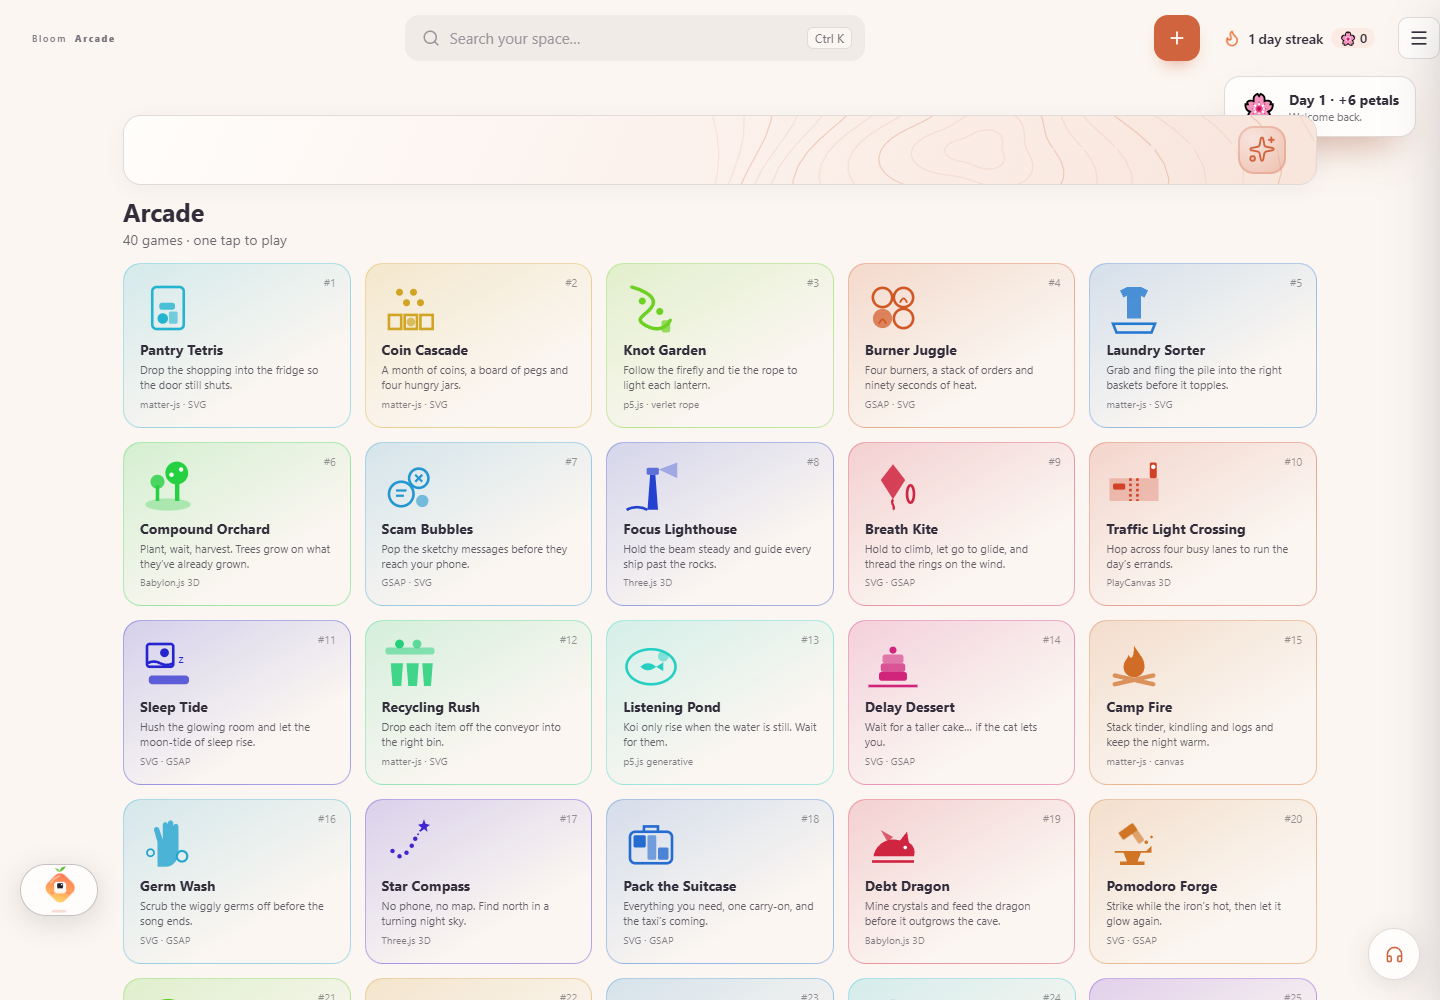
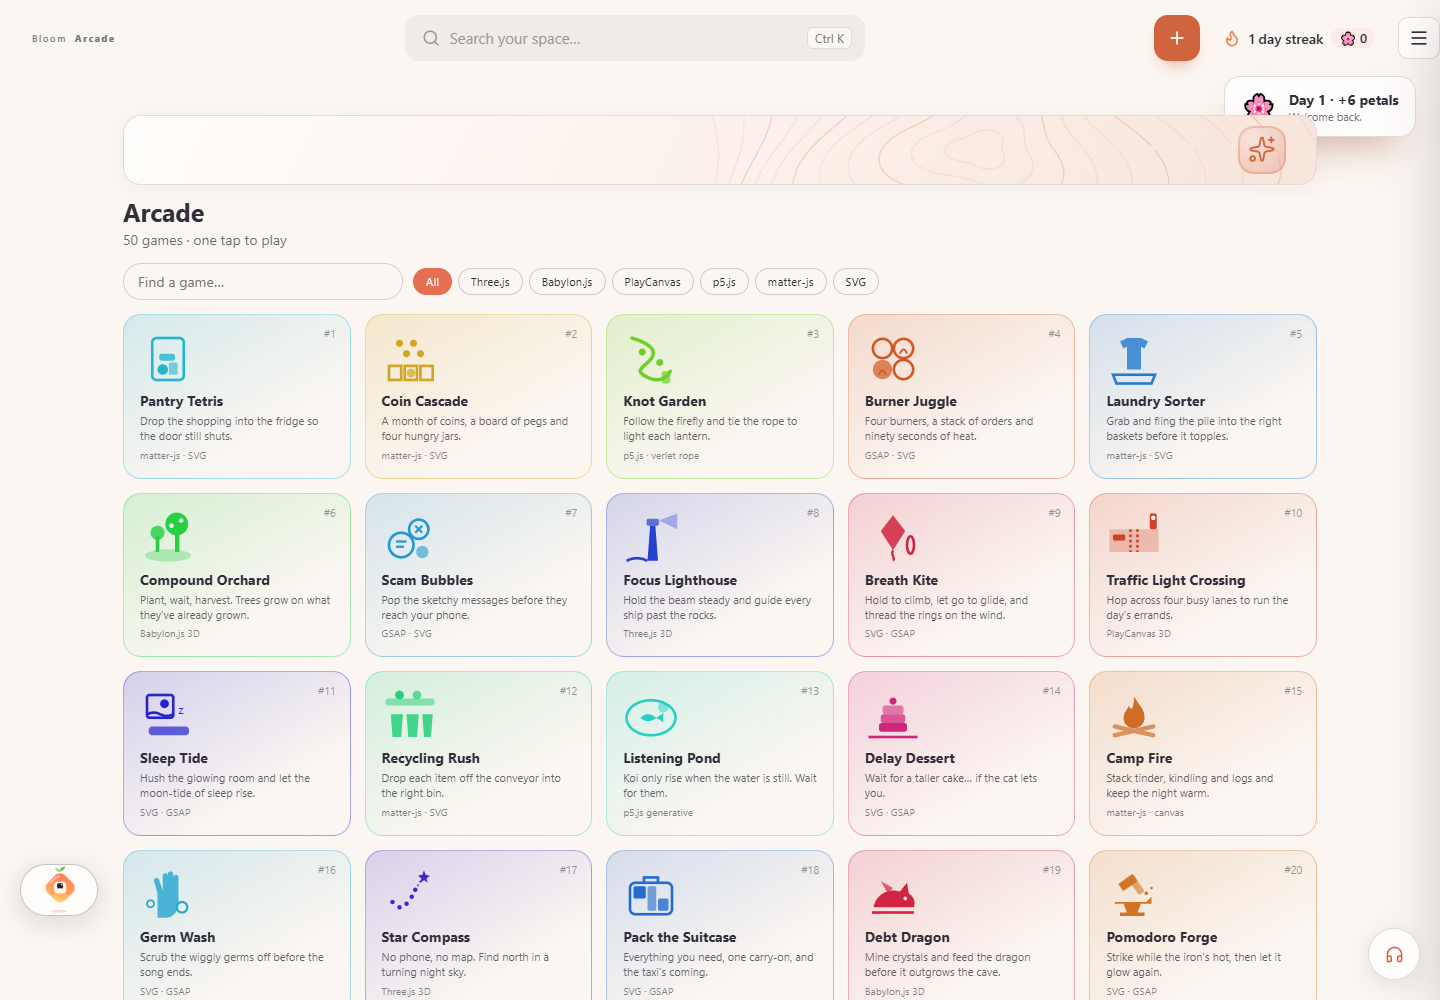
Arcade hub: search and engine filter; refreshed screenshot at 50 games

diff --git a/src/features/arcade/ArcadePage.tsx b/src/features/arcade/ArcadePage.tsx
@@ -9,6 +9,9 @@ export function ArcadePage() {
   const fromHash = () => { const id = location.hash.split('/')[1]; return GAMES.some((g) => g.id === id) ? id : null }
   const [open, setOpen] = useState<string | null>(fromHash)
   const grid = useRef<HTMLDivElement>(null)
+  const [q, setQ] = useState('')
+  const [tech, setTech] = useState('all')
+  const techs = ['all', 'Three.js', 'Babylon.js', 'PlayCanvas', 'p5.js', 'matter-js', 'SVG']
   useEffect(() => {
     const on = () => setOpen(fromHash())
     window.addEventListener('hashchange', on)
@@ -19,7 +22,7 @@ export function ArcadePage() {
     if (open || !grid.current || reducedMotion()) return
     const t = gsap.fromTo(grid.current.children, { y: 24, opacity: 0, rotateX: -25 }, { y: 0, opacity: 1, rotateX: 0, stagger: 0.04, duration: 0.5, ease: 'power3.out' })
     return () => { t.kill() }
-  }, [open])
+  }, [open, tech])
   const game = GAMES.find((g) => g.id === open)
   if (game) return (
     <section className="arcade" style={{ '--ar-hue': game.hue } as React.CSSProperties}>
@@ -31,8 +34,14 @@ export function ArcadePage() {
   return (
     <section className="arcade">
       <header className="ar-head"><h2>Arcade</h2><p>{GAMES.length} games · one tap to play</p></header>
+      <div className="ar-filters">
+        <input type="search" value={q} onChange={(e) => setQ(e.target.value)} placeholder="Find a game…" aria-label="Find a game" />
+        <div role="radiogroup" aria-label="Filter by engine">
+          {techs.map((t) => <button key={t} type="button" role="radio" aria-checked={tech === t} className={tech === t ? 'on' : ''} onClick={() => setTech(t)}>{t === 'all' ? 'All' : t}</button>)}
+        </div>
+      </div>
       <div className="ar-grid" ref={grid}>
-        {GAMES.map((g) => (
+        {GAMES.filter((g) => (tech === 'all' || g.tech.includes(tech)) && (!q.trim() || `${g.title} ${g.blurb}`.toLowerCase().includes(q.trim().toLowerCase()))).map((g) => (
           <button key={g.id} type="button" className="ar-card" style={{ '--ar-hue': g.hue } as React.CSSProperties} onClick={() => go(g.id)}>
             <svg viewBox="0 0 64 64" aria-hidden="true" dangerouslySetInnerHTML={{ __html: g.art }} />
             <span className="ar-n">#{g.n}</span>

diff --git a/src/features/arcade/arcade.css b/src/features/arcade/arcade.css
@@ -51,3 +51,8 @@
 .tr-card.resting { opacity: 0.7; }
 .pb-canvas { display: block; margin: 0 auto; height: min(72vh, 700px); aspect-ratio: 520 / 700; touch-action: none; }
 .ct-bubble { background: #fff; border: 2px solid #94a3b8; border-radius: 14px; padding: 10px 12px; font: 800 15px/1.3 system-ui, sans-serif; color: #1e293b; text-align: center; }
+.ar-filters { display: flex; flex-wrap: wrap; gap: 10px; align-items: center; }
+.ar-filters input { flex: 1 1 200px; max-width: 280px; padding: 8px 14px; border-radius: 999px; border: 1px solid color-mix(in srgb, currentColor 20%, transparent); background: transparent; color: inherit; }
+.ar-filters [role='radiogroup'] { display: flex; flex-wrap: wrap; gap: 6px; }
+.ar-filters button { border: 1px solid color-mix(in srgb, currentColor 22%, transparent); background: transparent; color: inherit; padding: 5px 12px; border-radius: 999px; cursor: pointer; font-size: 0.82rem; }
+.ar-filters button.on { background: var(--accent, #e76f51); color: #fff; border-color: transparent; }
